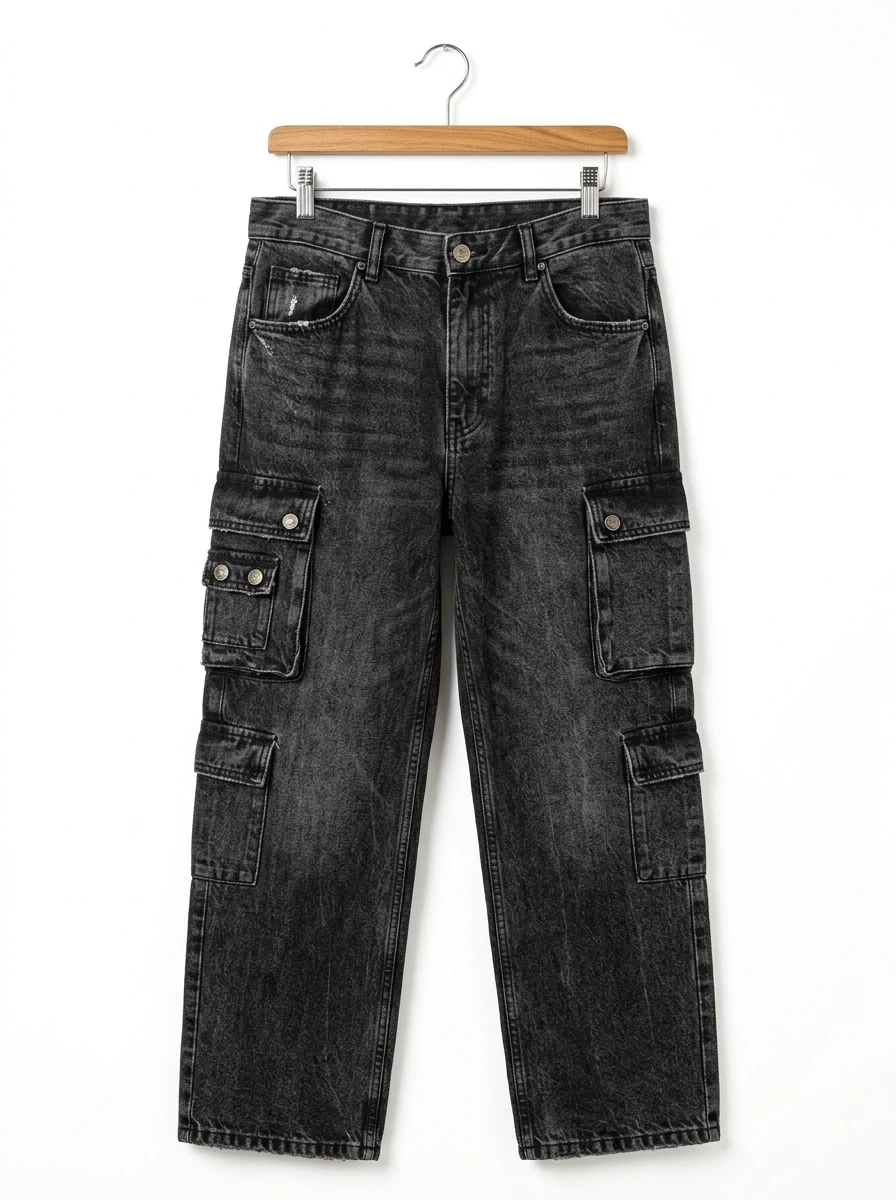
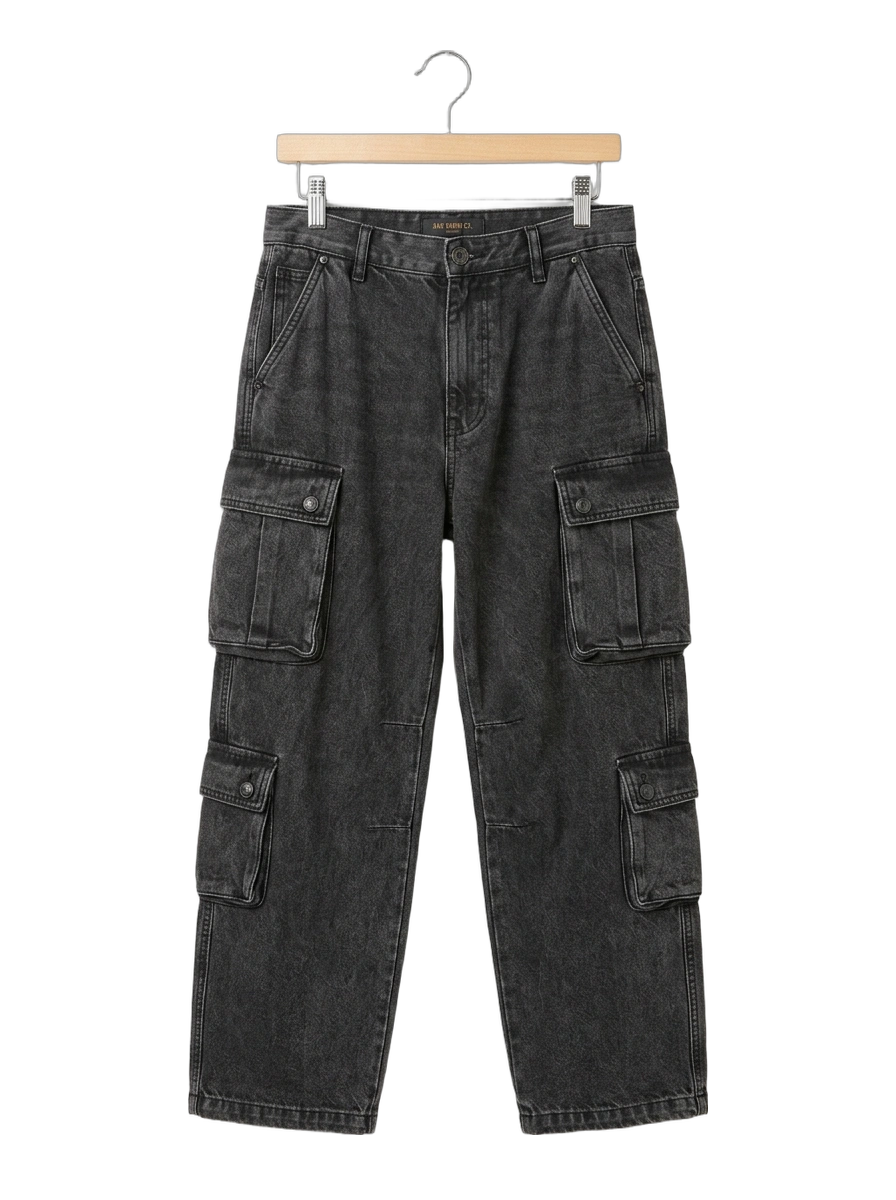
feat(pants-rail): separate pants rail into independent showcase with transparent backgrounds and realistic side drape profiles

Changed region(s): [[0.1875, 0.0308, 0.8125, 0.9867]]

diff --git a/FashionStore/wwwroot/js/clothing-rail.js b/FashionStore/wwwroot/js/clothing-rail.js
@@ -7,12 +7,15 @@
 (() => {
     'use strict';
 
-    const racks = [
+    const SHIRT_RACKS = [
         {
-            id: 'rack-01',
+            id: 'rack-shirt-01',
             badge: 'SÀO 01 // ESSENTIAL STREETWEAR',
             eyebrow: 'BỘ SƯU TẬP 01',
             heroTitle: 'Thời Trang Độc Bản · Nâng Tầm Phong Cách',
+            brandSignature: '<span>Sào Đồ</span><span>Thời Trang</span>',
+            captionHeading: 'Bộ sưu tập độc bản HNMTSHOP.',
+            captionDetail: '10 thiết kế giới hạn — Lướt sào hoặc chọn để xem chi tiết.',
             products: [
                 {
                     name: 'Reach Shirt',
@@ -117,11 +120,14 @@
                 }
             ]
         },
-                {
-            id: 'rack-02',
-            badge: 'SÀO 02',
+        {
+            id: 'rack-shirt-02',
+            badge: 'SÀO 02 // WINTER DROP',
             eyebrow: 'BỘ SƯU TẬP 02',
             heroTitle: 'Phong Cách Đường Phố · Bản Lĩnh Đột Phá',
+            brandSignature: '<span>Sào Đồ</span><span>Thời Trang</span>',
+            captionHeading: 'Bộ sưu tập mùa đông HNMTSHOP.',
+            captionDetail: 'Áo khoác bóng chày & Áo da Motorsport — Lướt sào hoặc chọn để xem chi tiết.',
             products: [
                 {
                     name: 'CYBERPUNK Heavyweight Boxy Tee (300GSM)',
@@ -154,18 +160,24 @@
                     stock: [4, 6, 5, 2, 0]
                 }
             ]
-        },
+        }
+    ];
+
+    const PANTS_RACKS = [
         {
-            id: 'rack-03',
-            badge: 'SÀO 03 // BỘ SƯU TẬP QUẦN 3D',
-            eyebrow: 'BỘ SƯU TẬP 03',
+            id: 'rack-pants-01',
+            badge: 'SÀO QUẦN // THỜI TRANG ĐỘC BẢN',
+            eyebrow: 'BỘ SƯU TẬP QUẦN 2026',
             heroTitle: 'Thiết Kế Đột Phá · Phom Dáng Thượng Hạng',
+            brandSignature: '<span>Sào Quần</span><span>Thời Trang</span>',
+            captionHeading: 'Bộ sưu tập quần cao cấp HNMTSHOP.',
+            captionDetail: 'Phom dáng chuẩn may đo cao cấp — Lướt sào hoặc chọn để xem chi tiết.',
             products: [
                 {
                     name: 'Quần Baggy Cargo Jeans Acid-Wash Đen Xám',
                     slug: 'acid-cargo',
                     price: 56,
-                    type: 'pants',
+                    type: 'quần cargo jeans',
                     art: 'cargo',
                     desc: 'Quần jeans túi hộp phom thụng rộng, wash mài xám khói bụi bặm phong cách Y2K và streetwear đương đại.',
                     colors: [['Washed Xám Đen (Vintage Charcoal)', '#25262B'], ['Xám Bạc (Silver Wash)', '#42454F']],
@@ -178,7 +190,7 @@
                     name: 'Quần Tây Xếp Ly Ống Rộng May Đo Sand Beige',
                     slug: 'sand-pleated',
                     price: 62,
-                    type: 'pants',
+                    type: 'quần tây may đo',
                     art: 'tailored',
                     desc: 'Phom dáng xếp 2 ly cạp cao may đo tinh xảo, chất vải twill rủ mềm mại tạo bước đi thanh thoát chuẩn quiet luxury.',
                     colors: [['Be Cát Tự Nhiên (Sand Beige)', '#D9CDB8'], ['Đen Midnight (Pitch Black)', '#17181C']],
@@ -191,7 +203,7 @@
                     name: 'Quần Dù Parachute Tactical Rêu Quân Đội',
                     slug: 'tactical-parachute',
                     price: 58,
-                    type: 'pants',
+                    type: 'quần dù parachute',
                     art: 'parachute',
                     desc: 'Chất liệu vải dù công nghệ trượt nước nhẹ, nhiều ngăn túi khóa bấm kim loại cùng dây rút lai quần biến hóa linh hoạt.',
                     colors: [['Xanh Rêu Quân Đội (Military Olive)', '#4B5320'], ['Đen Stealth (Shadow Black)', '#1B1C20']],
@@ -204,7 +216,7 @@
                     name: 'Quần Jeans Ống Suông Raw Selvedge Denim',
                     slug: 'raw-selvedge',
                     price: 68,
-                    type: 'pants',
+                    type: 'quần raw denim',
                     art: 'denim',
                     desc: 'Denim 14oz dệt thoi con thoi cổ điển Nhật Bản, giữ phom đứng cá tính cùng viền chỉ đỏ selvedge độc bản khi xắn gấu.',
                     colors: [['Đen Selvedge Chỉ Đỏ (Raw Black)', '#1A1A1E'], ['Chàm Đậm (Deep Indigo)', '#141E30']],
@@ -217,7 +229,7 @@
                     name: 'Quần Jeans Ống Rộng Vintage Washed Indigo',
                     slug: 'wide-denim',
                     price: 54,
-                    type: 'pants',
+                    type: 'quần jeans ống rộng',
                     art: 'denim',
                     desc: 'Phom suông rộng phóng khoáng kinh điển thập niên 90, xử lý wash nhẹ tạo độ rủ mềm mại cực kỳ thoải mái vận động.',
                     colors: [['Xanh Vintage Washed (90s Blue)', '#5B7C99'], ['Xanh Khói (Smoky Azure)', '#4A657D']],
@@ -230,8 +242,10 @@
         }
     ];
 
+    let currentCategory = 'ao'; // 'ao' or 'quan'
+    let currentRacks = SHIRT_RACKS;
     let currentRackIdx = 0;
-    let products = racks[0].products;
+    let products = currentRacks[0].products;
 
     const photo = (p, variant = 0) => p.frontImg || `/clothing-rail/assets/${p.slug}-${variant ? 'alt' : 'front'}.webp`;
     const sidePhoto = p => p.sideImg || `/clothing-rail/assets/${p.slug}-side.webp`;
@@ -318,32 +332,48 @@
         renderDetail();
     }
 
+    function applyRack(currentRack) {
+        if (!currentRack) return;
+        products = currentRack.products;
+        
+        const eyebrowEl = $('.rail-eyebrow');
+        if (eyebrowEl) eyebrowEl.textContent = currentRack.eyebrow;
+        
+        const heroTitleEl = $('.rail-hero-title');
+        if (heroTitleEl) heroTitleEl.innerHTML = currentRack.heroTitle;
+
+        const brandEl = $('.rail-brand');
+        if (brandEl && currentRack.brandSignature) {
+            brandEl.innerHTML = currentRack.brandSignature;
+        }
+
+        const capTitleEl = $('#captionTitle');
+        const capDetailEl = $('#captionDetail');
+        if (capTitleEl && currentRack.captionHeading) capTitleEl.textContent = currentRack.captionHeading;
+        if (capDetailEl && currentRack.captionDetail) capDetailEl.textContent = currentRack.captionDetail;
+
+        const prevRackBtn = $('#rackPrevBtn');
+        const nextRackBtn = $('#rackNextBtn');
+        const showArrows = currentRacks.length > 1;
+        if (prevRackBtn) prevRackBtn.style.display = showArrows ? '' : 'none';
+        if (nextRackBtn) nextRackBtn.style.display = showArrows ? '' : 'none';
+
+        makeRail();
+        const scroll = $('#railScroll');
+        if (scroll) scroll.scrollLeft = 0;
+        active = -1;
+        setActive(0);
+    }
+
     function switchRack(dir) {
         if (detailOpen) closeDetail();
+        if (currentRacks.length <= 1) return;
         const stage = $('#railStage');
         if (stage) stage.classList.add('is-switching');
         
         setTimeout(() => {
-            currentRackIdx = (currentRackIdx + dir + racks.length) % racks.length;
-            const currentRack = racks[currentRackIdx];
-            products = currentRack.products;
-            
-            // Cập nhật Badge Sào & Tiêu đề
-            const eyebrowEl = $('.rail-eyebrow');
-            if (eyebrowEl) eyebrowEl.textContent = currentRack.eyebrow;
-            
-            const heroTitleEl = $('.rail-hero-title');
-            if (heroTitleEl) heroTitleEl.innerHTML = currentRack.heroTitle;
-            
-            // Render lại sào mới
-            makeRail();
-            
-            const scroll = $('#railScroll');
-            if (scroll) scroll.scrollLeft = 0;
-            
-            active = -1;
-            setActive(0);
-            
+            currentRackIdx = (currentRackIdx + dir + currentRacks.length) % currentRacks.length;
+            applyRack(currentRacks[currentRackIdx]);
             setTimeout(() => {
                 if (stage) stage.classList.remove('is-switching');
             }, 60);
@@ -475,33 +505,10 @@
         }
     }
 
-    function switchToRack(idx) {
-        if (idx < 0 || idx >= racks.length) return;
-        currentRackIdx = idx;
-        const currentRack = racks[currentRackIdx];
-        products = currentRack.products;
-        if (detailOpen) closeDetail();
-        
-        const eyebrowEl = $('.rail-eyebrow');
-        if (eyebrowEl) eyebrowEl.textContent = currentRack.eyebrow;
-        
-        const heroTitleEl = $('.rail-hero-title');
-        if (heroTitleEl) heroTitleEl.innerHTML = currentRack.heroTitle;
-        
-        makeRail();
-        const scroll = $('#railScroll');
-        if (scroll) scroll.scrollLeft = 0;
-        active = -1;
-        setActive(0);
-    }
-
-    function openClothingRail(category) {
-        if (category === 'quan') {
-            const pantsIdx = racks.findIndex(r => r.id === 'rack-03');
-            if (pantsIdx >= 0) switchToRack(pantsIdx);
-        } else if (category === 'ao') {
-            switchToRack(0);
-        }
+    function openClothingRail(category = 'ao') {
+        currentCategory = (category === 'quan') ? 'quan' : 'ao';
+        currentRacks = (currentCategory === 'quan') ? PANTS_RACKS : SHIRT_RACKS;
+        currentRackIdx = 0;
 
         const rackOverlayEl = document.getElementById('hnmtRackOverlay');
         if (rackOverlayEl) {
@@ -513,9 +520,7 @@
             if (promptEl) promptEl.style.display = 'none';
             if (portalHeaderEl) portalHeaderEl.style.display = 'none';
             
-            const scroll = $('#railScroll');
-            if (scroll) scroll.scrollLeft = 0;
-            setActive(0);
+            applyRack(currentRacks[0]);
         }
     }
 
@@ -526,8 +531,8 @@
     window.ClothingRail = {
         openClothingRail,
         closeClothingRail,
-        switchToRack,
-        racks
+        SHIRT_RACKS,
+        PANTS_RACKS
     };
 
     function init() {
